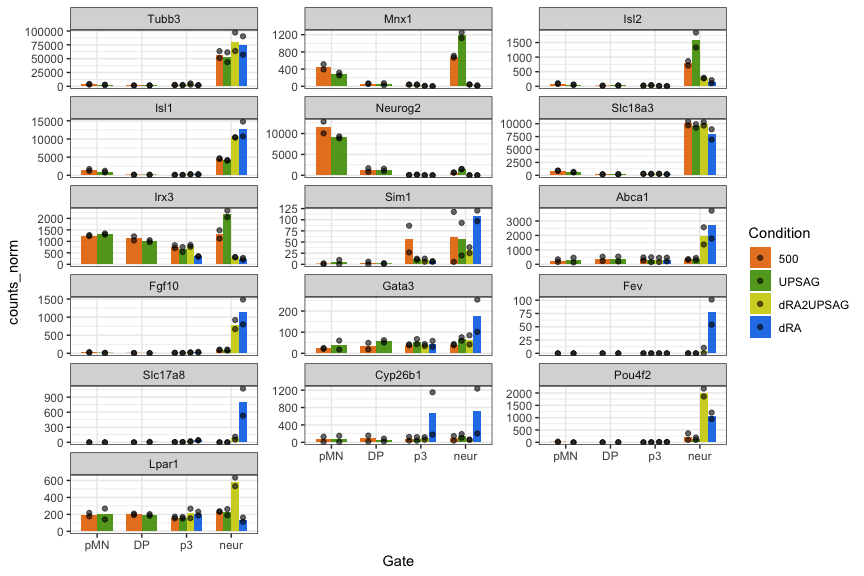
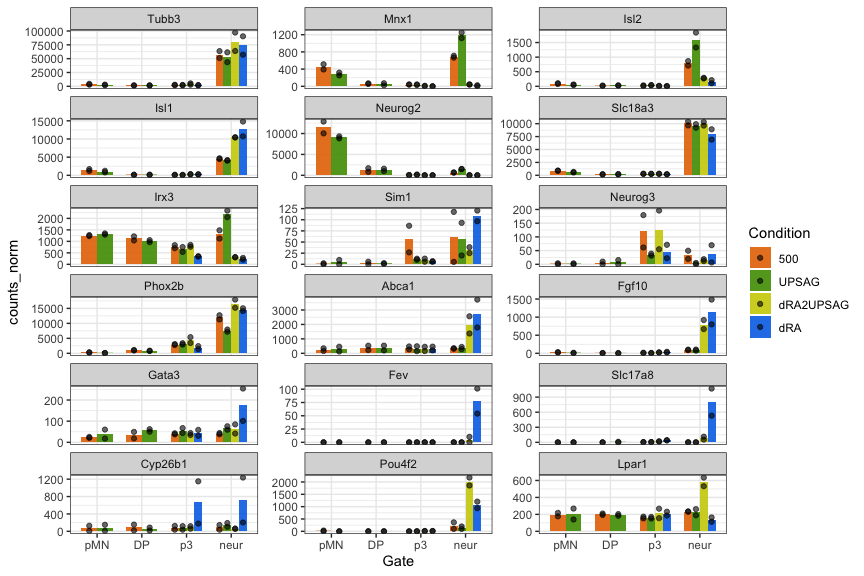
Updated genes to plot

diff --git a/r_files/DPpilotRNA_2_quick_plotgenes.md b/r_files/DPpilotRNA_2_quick_plotgenes.md
@@ -139,7 +139,7 @@ Just D7:
 
 ``` r
 geneOI <- c("Tubb3","Mnx1","Isl2","Isl1","Neurog2","Slc18a3","Irx3",
-            "Sim1",
+            "Sim1","Neurog3","Phox2b",
             "Abca1","Fgf10",
             "Gata3","Fev","Slc17a8","Cyp26b1",
             "Pou4f2","Lpar1")
